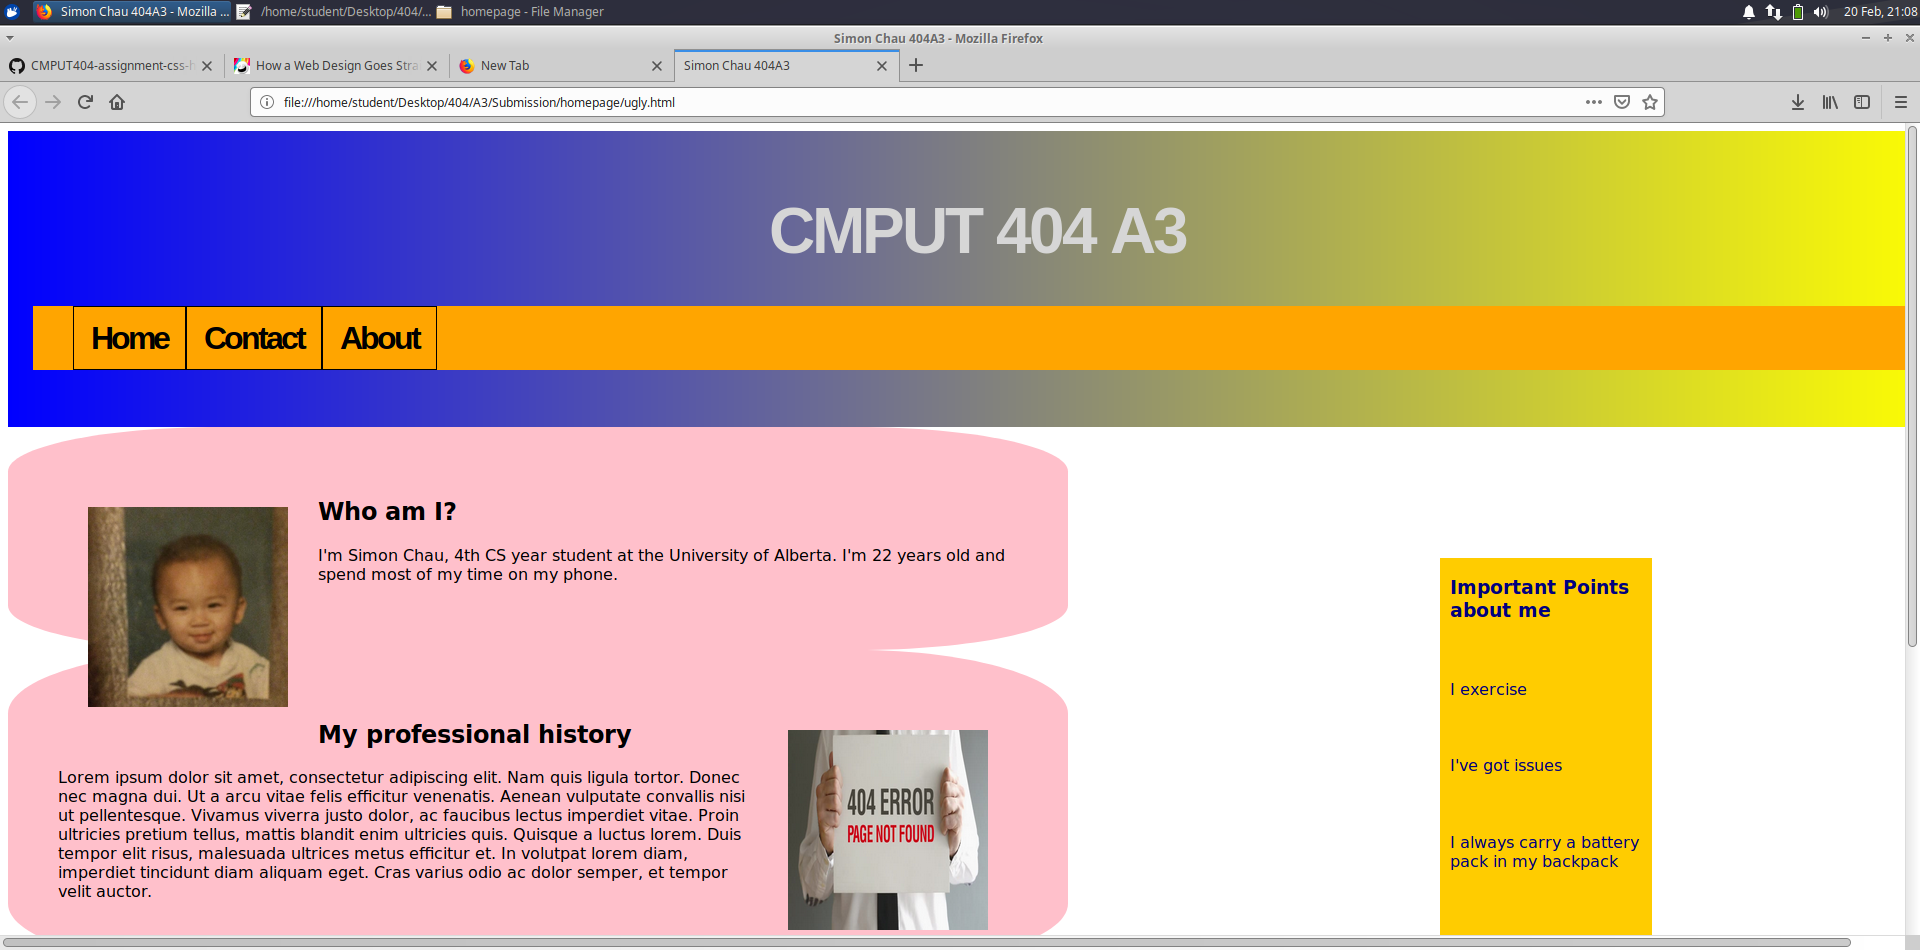
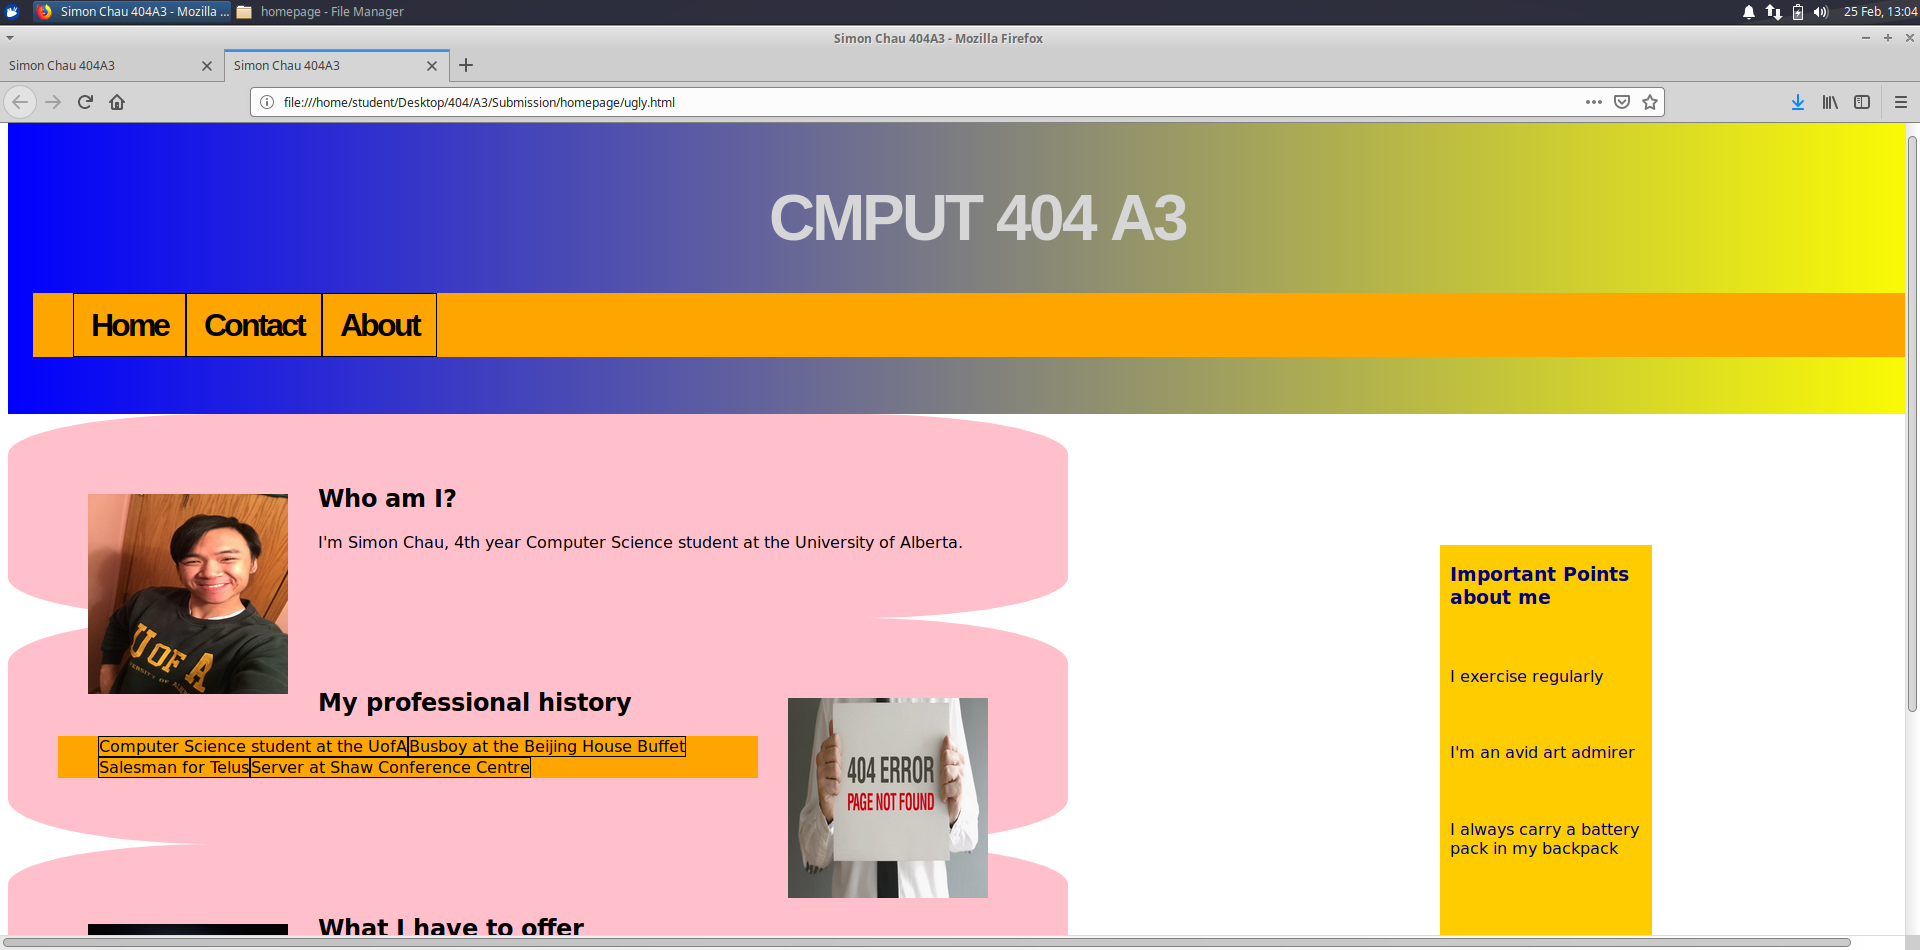
made more 'professional'

diff --git a/homepage/good.html b/homepage/good.html
@@ -10,7 +10,7 @@
 <div id="topHeader">
 <h1 id="home"> CMPUT 404 A3 </h1>
 
-<ul>
+<ul class="navbar">
   <li><a class="active" href="#home">Home</a></li>
   <li><a href="#contact">Contact</a></li>
   <li><a href="#about">About</a></li>
@@ -21,8 +21,7 @@
 	<img class="sectionPicture" src="./images/me.jpg" alt="Simon Chau" align="left">
 	<h2> Who am I? </h2>
 	<p>
-		I'm Simon Chau, 4th CS year student at the University of Alberta.
-		I'm 22 years old and spend most of my time on my phone.
+		I'm Simon Chau, 4th year Computer Science student at the University of Alberta.
 	
 	</p>
 </section>
@@ -30,31 +29,25 @@
 <section>
 	<img class="sectionPicture" src="./images/404.jpg" alt="An image of a 404 not found error" align="right">
 	<h2> My professional history </h2>
-	<p>
-	Lorem ipsum dolor sit amet, consectetur adipiscing elit. 
-	Nam quis ligula tortor. Donec nec magna dui. 
-	Ut a arcu vitae felis efficitur venenatis. 
-	Aenean vulputate convallis nisi ut pellentesque. 
-	Vivamus viverra justo dolor, ac faucibus lectus imperdiet vitae. 
-	Proin ultricies pretium tellus, mattis blandit enim ultricies quis. 
-	Quisque a luctus lorem. Duis tempor elit risus, 
-	malesuada ultrices metus efficitur et. In volutpat lorem diam, 
-	imperdiet tincidunt diam aliquam eget. 
-	Cras varius odio ac dolor semper, et tempor velit auctor.
-	</p>
+	<ul>
+	<li> Computer Science student at the UofA </li>
+	<li> Busboy at the Beijing House Buffet </li>
+	<li> Salesman for Telus </li>
+	<li> Server at Shaw Conference Centre </li> 
+	</ul>
 </section>
 
 <section>
 <img class="sectionPicture" src="./images/lightbulb.jpg" alt="An image of a lightbulb floating over a coffee cup" align="left">
 	<h2> What I have to offer </h2>
-	<p>Honesty, for the most part.</p> 
+	<p>Honesty, for the most part. </p> 
 </section>
 
 <article>
 	<h3> Important Points about me </h3>
 	<aside> 
-	<p> I exercise </p>
-	<p> I've got issues </p>
+	<p> I exercise regularly </p>
+	<p> I'm an avid art admirer </p>
 	<p> I always carry a battery pack in my backpack </p>
 	<p> 
 	</aside>

diff --git a/homepage/ugly.html b/homepage/ugly.html
@@ -10,7 +10,7 @@
 <div id="topHeader">
 <h1 id="home"> CMPUT 404 A3 </h1>
 
-<ul>
+<ul class="navbar">
   <li><a class="active" href="#home">Home</a></li>
   <li><a href="#contact">Contact</a></li>
   <li><a href="#about">About</a></li>
@@ -21,8 +21,7 @@
 	<img class="sectionPicture" src="./images/me.jpg" alt="Simon Chau" align="left">
 	<h2> Who am I? </h2>
 	<p>
-		I'm Simon Chau, 4th CS year student at the University of Alberta.
-		I'm 22 years old and spend most of my time on my phone.
+		I'm Simon Chau, 4th year Computer Science student at the University of Alberta.
 	
 	</p>
 </section>
@@ -30,31 +29,25 @@
 <section>
 	<img class="sectionPicture" src="./images/404.jpg" alt="An image of a 404 not found error" align="right">
 	<h2> My professional history </h2>
-	<p>
-	Lorem ipsum dolor sit amet, consectetur adipiscing elit. 
-	Nam quis ligula tortor. Donec nec magna dui. 
-	Ut a arcu vitae felis efficitur venenatis. 
-	Aenean vulputate convallis nisi ut pellentesque. 
-	Vivamus viverra justo dolor, ac faucibus lectus imperdiet vitae. 
-	Proin ultricies pretium tellus, mattis blandit enim ultricies quis. 
-	Quisque a luctus lorem. Duis tempor elit risus, 
-	malesuada ultrices metus efficitur et. In volutpat lorem diam, 
-	imperdiet tincidunt diam aliquam eget. 
-	Cras varius odio ac dolor semper, et tempor velit auctor.
-	</p>
+	<ul>
+	<li> Computer Science student at the UofA </li>
+	<li> Busboy at the Beijing House Buffet </li>
+	<li> Salesman for Telus </li>
+	<li> Server at Shaw Conference Centre </li> 
+	</ul>
 </section>
 
 <section>
 <img class="sectionPicture" src="./images/lightbulb.jpg" alt="An image of a lightbulb floating over a coffee cup" align="left">
 	<h2> What I have to offer </h2>
-	<p>Honesty, for the most part.</p> 
+	<p>Honesty, for the most part. </p> 
 </section>
 
 <article>
 	<h3> Important Points about me </h3>
 	<aside> 
-	<p> I exercise </p>
-	<p> I've got issues </p>
+	<p> I exercise regularly </p>
+	<p> I'm an avid art admirer </p>
 	<p> I always carry a battery pack in my backpack </p>
 	<p> 
 	</aside>

diff --git a/homepage/good.css b/homepage/good.css
@@ -17,18 +17,20 @@ body {
 	border-bottom: 20px solid black;
 }
 
-ul {
+
+
+ul.navbar {
   list-style-type: none;
   overflow: hidden;
   background-color: #333;
   position: relative;
 }
 
-li {
+.navbar > li {
   float: left;
 }
 
-li a {
+.navbar > li a {
   display: block;
   color: white;
   text-align: center;
@@ -36,14 +38,14 @@ li a {
   text-decoration: none;
 }
 
-li a:hover {
+.navbar > li a:hover {
   background-color: #111;
 }
 
 
 .sectionPicture {
-	height: 150px;
-	width: 150px;
+	height: 175px;
+	width: 175px;
 	border-radius: 20%;
 	padding: 30px;
 }
@@ -70,7 +72,7 @@ article {
 	height: 75%;
 	background-color: #d1d1e0;
 	margin-right: 20%;
-	bottom: -26%;
+	bottom: -15%;
 	left: 75%;
 	padding-left: 10px;
 	padding-right: 10px;

diff --git a/README.md b/README.md
@@ -6,6 +6,11 @@ Part I:
 I removed the existing style sections from the gutenberg html files 
 and replaced them with a link tag that referenced my external css file. 
 
+
+Part II:
+Creative Commons license added to bottom of my HTML files. 
+
+
 Assignment: CSS Hell
 ====================
 
